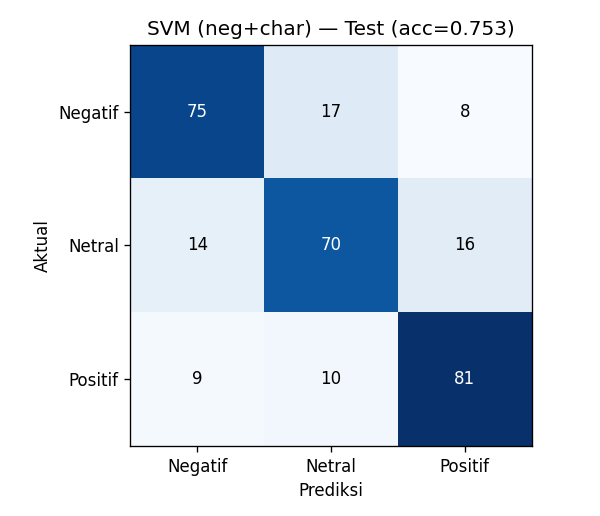
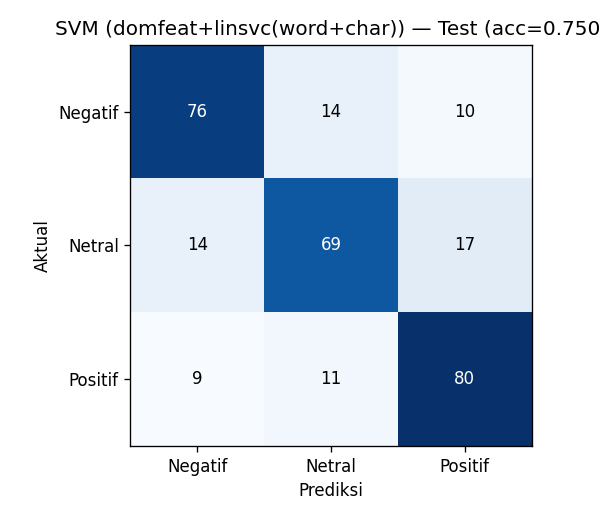
feat: SVM Batch B fitur domain (penuduh/Jokowi x serang/hukum + verdict) -> official domfeat+linsvc
- ColumnTransformer: TF-IDF word(1,2)+char_wb(3,5) + fitur domain dari teks mentah
- OOF macro-F1 0.7604 (neg+char) -> 0.7736 (+domain), test-split 0.75 (noise n=300)
- Official via fast-path 1 fit (hemat CPU, tanpa sweep CV)
- IndoBERT/IndoBERTweet sengaja belum re-run (fokus SVM); comparison 3-model menunggu

diff --git a/src/modeling/svm_batch_b.py b/src/modeling/svm_batch_b.py
@@ -1,0 +1,172 @@
+"""Batch B — SVM + fitur rekayasa DOMAIN (di atas TF-IDF word+char).
+
+Ide: label v2 domain-aware bergantung pada SIAPA diserang (penuduh vs Jokowi) + verdict
+klaim — sinyal yang sulit ditangkap bag-of-words. Tambahkan fitur eksplisit:
+  - mention kubu penuduh / Jokowi-pembela
+  - kata serangan + kata tuntutan-hukuman
+  - verdict palsu / asli / fitnah
+  - negasi
+  - INTERAKSI: penuduh×(serang|hukum) -> sinyal Negatif; Jokowi×(serang|hukum) -> Positif
+digabung (ColumnTransformer) dgn TF-IDF (word 1-2 + char_wb 3-5) lalu LinearSVC/LogReg.
+
+Eval: test split kanonik (seed=42) + OOF 5-fold. Bandingkan dgn baseline neg+char (0,7533).
+  python -m src.modeling.svm_batch_b [--write-official]
+"""
+from __future__ import annotations
+
+import argparse
+import os
+import re
+import time
+
+import certifi
+import numpy as np
+import pandas as pd
+from dotenv import load_dotenv
+from pymongo import MongoClient
+from sklearn.compose import ColumnTransformer
+from sklearn.feature_extraction.text import TfidfVectorizer
+from sklearn.linear_model import LogisticRegression
+from sklearn.metrics import accuracy_score, f1_score
+from sklearn.model_selection import StratifiedKFold, cross_val_predict, train_test_split
+from sklearn.pipeline import Pipeline
+from sklearn.preprocessing import FunctionTransformer, MaxAbsScaler
+from sklearn.svm import LinearSVC
+
+SEED = 42
+LABELS = ["Negatif", "Netral", "Positif"]
+L2I = {l: i for i, l in enumerate(LABELS)}
+DB = os.environ.get("MONGO_DB_NAME", "youtube_sentiment")
+
+ACCUSER = r"\broy\b|suryo|\broi\b|panci|\brrt\b|rismon|\btifa\b|rizal|fadhilah|fadilah|penuduh|menuduh"
+JOKOWI = r"jokowi|mulyono|pria solo|\bjkw\b|\bugm\b|rektor|dekan"
+PUNISH = r"penjara|adili|tangkap|\btahan\b|ditahan|\bbui\b|laporin|dipenjara|dihukum|\bhukum\b|tersangka|jeblos|borgol"
+ATTACK = r"stres|stress|gila|bodoh|goblok|tolol|dungu|odgj|sakit hati|dendam|najis|laknat|setan|bohong|pembohong|sinting|edan|sarap|bego|kurang ajar"
+PALSU = r"palsu|bodong|edit|rekayasa|tipu|aspal|abal"
+ASLI = r"asli|terbukti|\bsah\b|valid"
+FITNAH = r"fitnah|hoax|hoaks|cari sensasi|cari panggung|pencemaran"
+NEG = r"\b(tidak|bukan|jangan|tdk|gak|nggak|tak|belum|tanpa|jgn|ngga)\b"
+
+
+def _feat(texts) -> np.ndarray:
+    rows = []
+    for t in texts:
+        s = str(t).lower()
+        acc = 1 if re.search(ACCUSER, s) else 0
+        jkw = 1 if re.search(JOKOWI, s) else 0
+        pun = 1 if re.search(PUNISH, s) else 0
+        atk = 1 if re.search(ATTACK, s) else 0
+        palsu = 1 if re.search(PALSU, s) else 0
+        asli = 1 if re.search(ASLI, s) else 0
+        fit = 1 if re.search(FITNAH, s) else 0
+        neg = 1 if re.search(NEG, s) else 0
+        rows.append([
+            acc, jkw, pun, atk, palsu, asli, fit, neg,
+            acc * (pun or atk),      # serang/hukum penuduh -> Negatif
+            jkw * (pun or atk),      # serang/hukum Jokowi -> Positif
+            acc * fit,               # penuduh + fitnah -> Negatif
+            palsu, asli,             # verdict langsung
+        ])
+    return np.array(rows, dtype=float)
+
+
+def _connect(tries=6) -> MongoClient:
+    load_dotenv()
+    uri = os.environ["MONGO_URI"]
+    last = None
+    for a in range(1, tries + 1):
+        try:
+            c = MongoClient(uri, tlsCAFile=certifi.where(), serverSelectionTimeoutMS=20000)
+            c.admin.command("ping")
+            return c
+        except Exception as e:  # noqa: BLE001
+            last = e
+            time.sleep(min(2 ** a, 15))
+    raise RuntimeError(f"Mongo gagal: {last}")
+
+
+def load(client, subset):
+    db = client[DB]
+    mem = pd.DataFrame(list(db["raw_comments"].find({"label": {"$exists": True}},
+                                                    {"_id": 0, "comment_id": 1, "label": 1})))
+    sv = pd.DataFrame(list(db["processed_svm"].find({}, {"_id": 0, "comment_id": 1, "svm": 1, "text": 1})))
+    df = mem.merge(sv, on="comment_id", how="left")
+    df["svm"] = df["svm"].fillna("")
+    df["text"] = df["text"].fillna("")
+    df["y"] = df["label"].map(L2I)
+    ids = set(pd.read_csv(subset, usecols=["comment_id"])["comment_id"].astype(str))
+    return df[df["comment_id"].astype(str).isin(ids)].reset_index(drop=True)
+
+
+def split(df):
+    df = df.sort_values("comment_id").reset_index(drop=True)
+    tmp, te = train_test_split(df, test_size=0.10, stratify=df["y"], random_state=SEED)
+    tr, va = train_test_split(tmp, test_size=0.20 / 0.90, stratify=tmp["y"], random_state=SEED)
+    return tr, va, te
+
+
+def build(clf):
+    ct = ColumnTransformer([
+        ("word", TfidfVectorizer(sublinear_tf=True, ngram_range=(1, 2), min_df=2), "svm"),
+        ("char", TfidfVectorizer(sublinear_tf=True, analyzer="char_wb", ngram_range=(3, 5), min_df=3), "svm"),
+        ("dom", Pipeline([("f", FunctionTransformer(_feat)), ("s", MaxAbsScaler())]), "text"),
+    ])
+    return Pipeline([("ct", ct), ("clf", clf)])
+
+
+def pcf(y, p):
+    fs = f1_score(y, p, average=None, labels=[0, 1, 2], zero_division=0)
+    return {l: round(v, 3) for l, v in zip(LABELS, fs)}
+
+
+def main():
+    ap = argparse.ArgumentParser()
+    ap.add_argument("--subset", default="outputs/labeling/balanced_3000.csv")
+    ap.add_argument("--tag", default="balanced3k")
+    ap.add_argument("--write-official", action="store_true")
+    args = ap.parse_args()
+
+    df = load(_connect(), args.subset)
+    tr, va, te = split(df)
+    print(f"[{args.tag}] n={len(df)} train={len(tr)} val={len(va)} test={len(te)}\n")
+
+    # FAST PATH: tulis official via 1x fit (LinearSVC C=0.5), TANPA OOF/sweep (hemat CPU).
+    if args.write_official:
+        pipe = build(LinearSVC(class_weight="balanced", C=0.5, random_state=SEED))
+        pipe.fit(pd.concat([tr, va])[["svm", "text"]], pd.concat([tr, va])["y"])
+        yp = pipe.predict(te[["svm", "text"]])
+        acc = accuracy_score(te["y"], yp); mf = f1_score(te["y"], yp, average="macro", zero_division=0)
+        f = pcf(te["y"], yp)
+        print(f"domfeat+linsvc test_acc={acc:.4f} macroF1={mf:.4f} | "
+              + " ".join(f"{k[:3]}={f[k]:.2f}" for k in LABELS))
+        from src.modeling.svm_batch_a import _write_official
+        _write_official(args.tag, "domfeat+linsvc(word+char)", te, yp)
+        return
+
+    Xall = df[["svm", "text"]]
+    clfs = {"linsvc": LinearSVC(class_weight="balanced", C=0.5, random_state=SEED),
+            "logreg": LogisticRegression(class_weight="balanced", C=1.0, max_iter=2000)}
+    best = None
+    for name, clf in clfs.items():
+        pipe = build(clf)
+        pipe.fit(pd.concat([tr, va])[["svm", "text"]], pd.concat([tr, va])["y"])
+        yp = pipe.predict(te[["svm", "text"]])
+        acc = accuracy_score(te["y"], yp); mf = f1_score(te["y"], yp, average="macro", zero_division=0)
+        oof = cross_val_predict(build(clf), Xall, df["y"],
+                                cv=StratifiedKFold(5, shuffle=True, random_state=SEED))
+        oofm = f1_score(df["y"], oof, average="macro", zero_division=0)
+        f = pcf(te["y"], yp)
+        print(f"{name:<7} test_acc={acc:.4f} test_macroF1={mf:.4f} oof_macroF1={oofm:.4f} | "
+              + " ".join(f"{k[:3]}={f[k]:.2f}" for k in LABELS))
+        if best is None or oofm > best[1]:
+            best = (name, oofm, acc, mf, yp)
+
+    print(f"\nBaseline neg+char (Batch A) = 0,7533. Batch B terbaik (OOF) = {best[0]} (acc {best[2]:.4f})")
+
+    if args.write_official:
+        from src.modeling.svm_batch_a import _write_official
+        _write_official(args.tag, f"domfeat+{best[0]}", te, best[4])
+
+
+if __name__ == "__main__":
+    main()